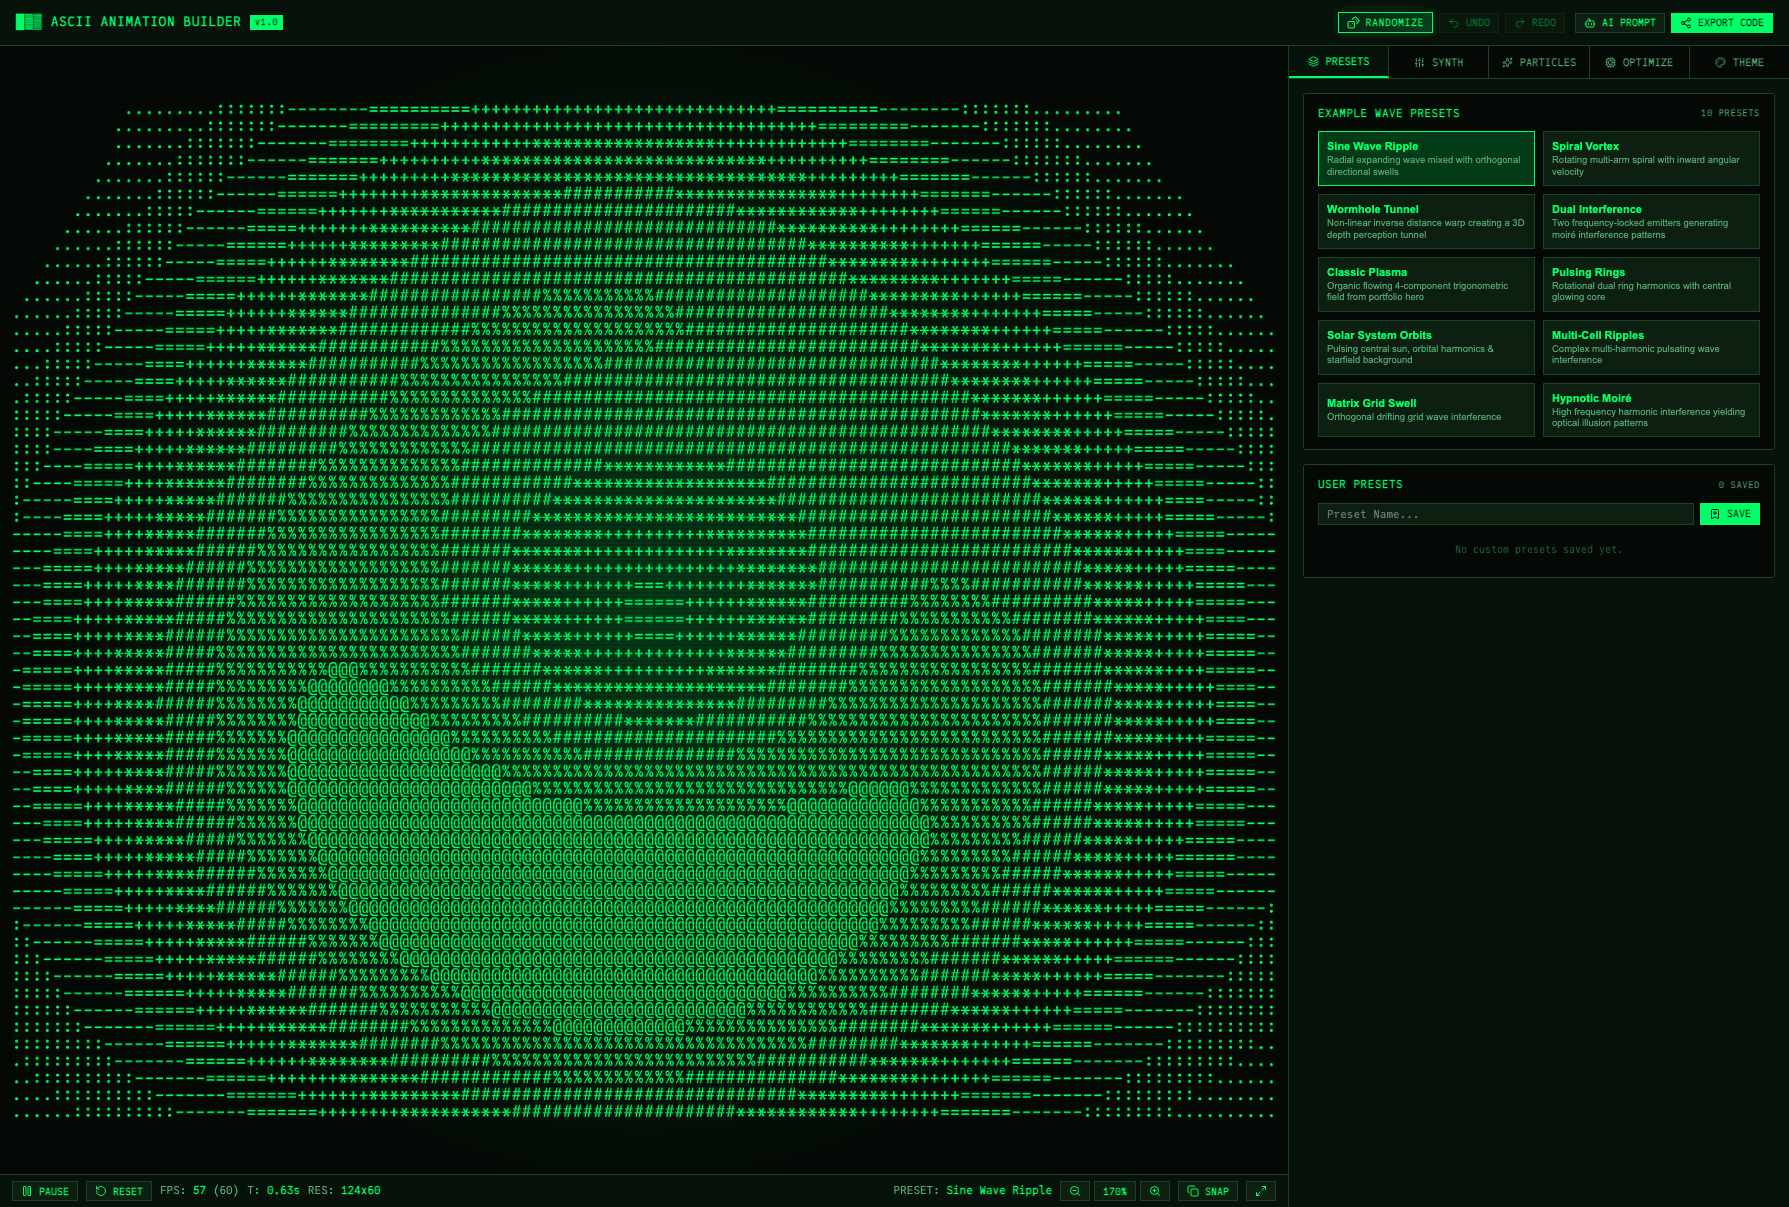
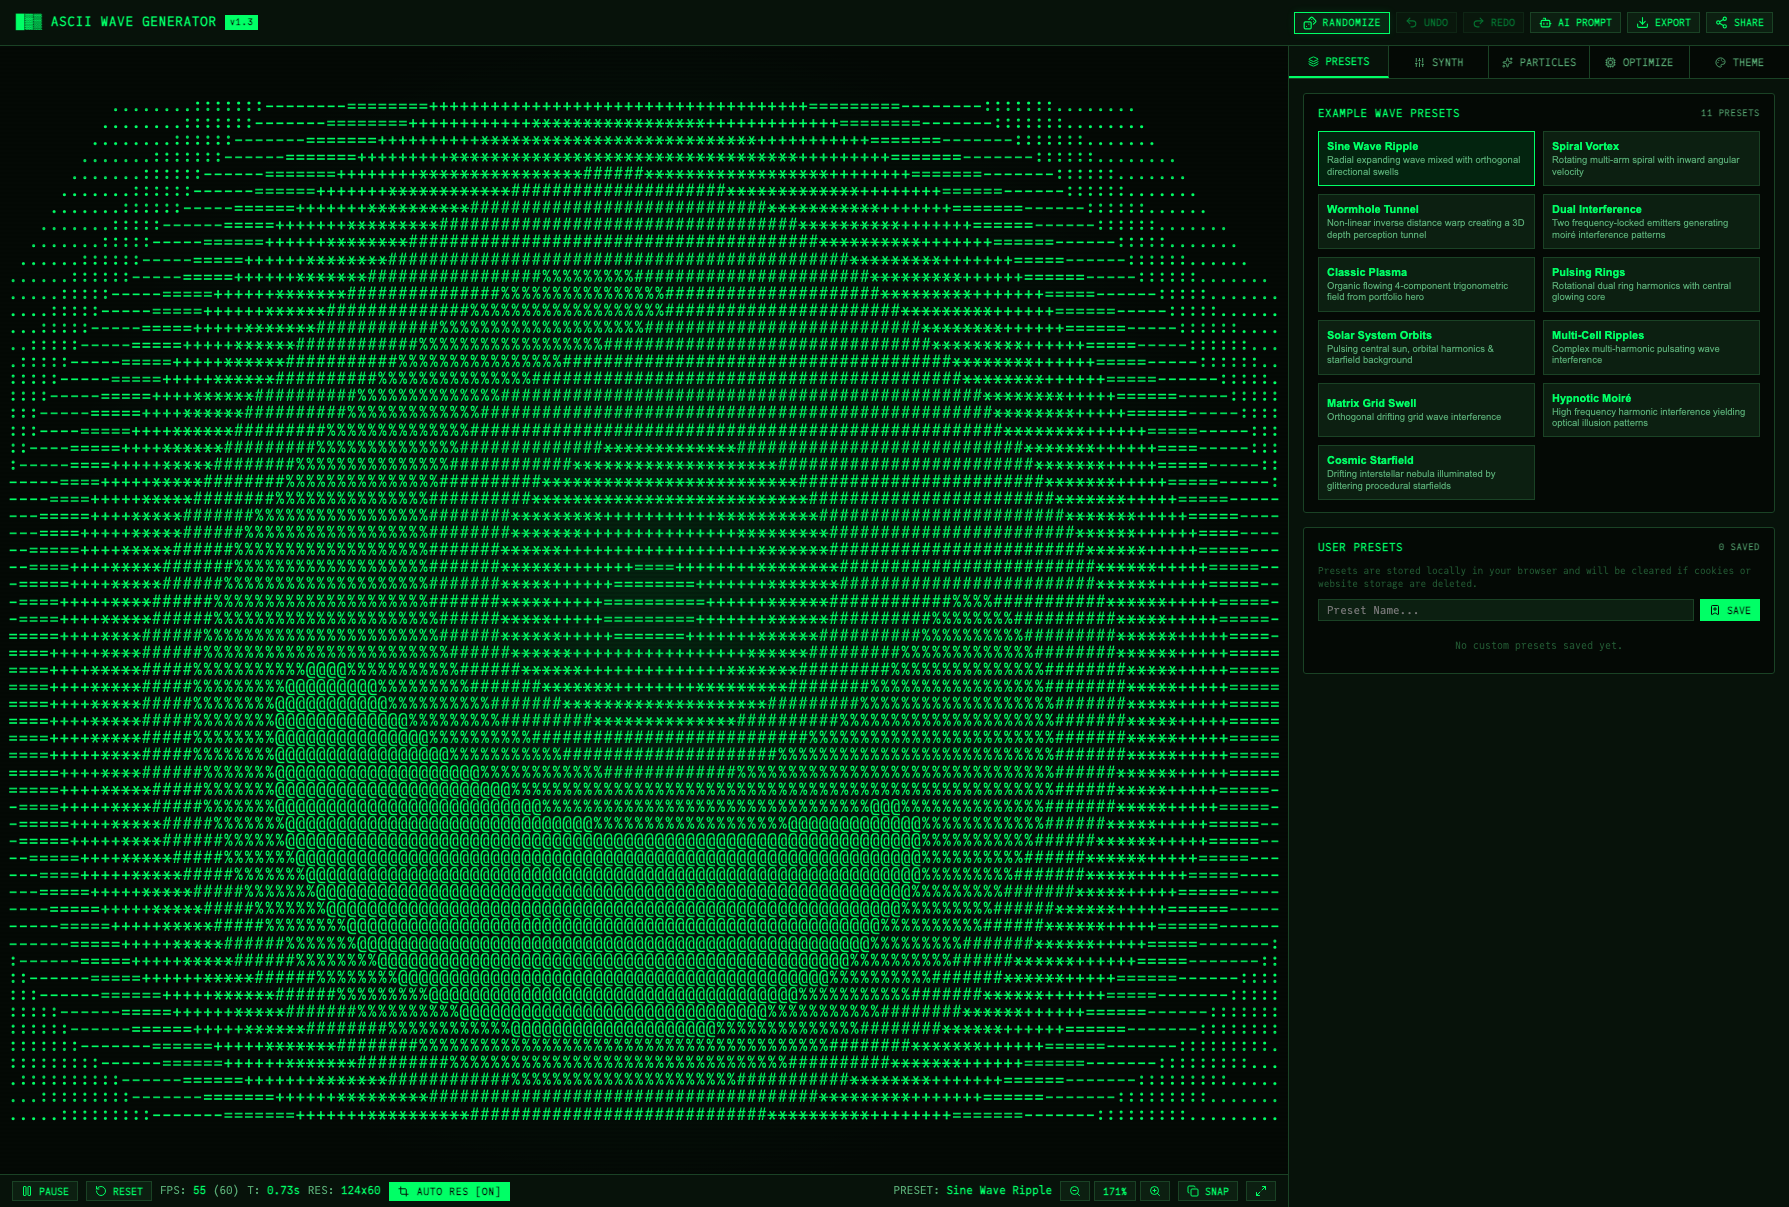
docs: update project portfolio documentation with expanded technical details and roadmap for vibe-coding trilogy projects

diff --git a/src/content/projects/vibe-coding-trilogy/index.md b/src/content/projects/vibe-coding-trilogy/index.md
@@ -1,21 +1,40 @@
 ---
 title: "Vibe Coding projects"
 description: "Some small websites I built recently"
-date: "March 2026"
+date: "June 12, 2026"
 thumbnail: "/projectfiles/thumbnails/camera-thumbnail.png"
 ---
 
-Over the past few weeks, I built four personal websites using what I now think of as a new way of working: **Vibe Coding**. Each project started as a clear idea, and was brought to life in a few evenings using **Antigravity** and the **Gemini CLI** as accelerators. Here's a look at all four.
+Over the past few weeks, I built a number of websites, apps, and projects using what I now think of as a new way of working: **Vibe Coding**. Each project started as a clear idea, and was brought to life in a few evenings using mostly **Antigravity** and a sprinkle of **Claude Code** as accelerators. Most projects were built with <a href="https://astro.build" target="_blank" rel="noopener noreferrer">**Astro**</a> or <a href="https://react.dev/" target="_blank" rel="noopener noreferrer">**React + Vite**</a> and deployed on <a href="https://pages.github.com" target="_blank" rel="noopener noreferrer">**GitHub Pages**</a> with custom domains — a stack I've now become very comfortable with.
+
+## A Note on Vibe Coding
+
+All of these projects were built in heavily AI-assisted sessions. The AI handled the scaffolding, the boilerplate, and the tedious back-and-forth with config and types. I handled the design decisions, the content, and the ideas.
+
+I quickly realized that 90% of a project gets done in 10% of the time — what truly takes effort is the refinement. Fortunately, it's something I love doing, and it feels seamless now: working with AI agents is like pairing with a senior engineer who has infinite patience.
 
 ---
 
 ## The Projects
 
-### 👾 ASCII Animation Builder — <a href="https://ascii.pantoine.com" target="_blank" rel="noopener noreferrer">ascii.pantoine.com</a>
+### 👾 ASCII Wave Generator — <a href="https://ascii.pantoine.com" target="_blank" rel="noopener noreferrer">ascii.pantoine.com</a>
 
-![Preview of ascii.pantoine.com — an interactive ASCII animation builder with real-time green terminal canvas, presets, and code export tools](/projectfiles/vibe-coding-trilogy/ascii-cover.png)
+![Preview of ascii.pantoine.com — an interactive ASCII wave generator with real-time green terminal canvas, presets, and code export tools](/projectfiles/vibe-coding-trilogy/ascii-cover.png)
 
-An interactive visual generator and synthesizer for real-time ASCII canvas animations. It lets you tweak wave harmonics, particle systems, noise flows, and character density presets in a retro-terminal interface, then directly export self-contained ready-to-use Astro and React components or canvas code.
+An interactive visual generator and synthesizer for real-time ASCII canvas animations. It lets you tweak wave harmonics, particle systems, noise flows, and character density presets in a retro-terminal interface.
+
+#### The Technical Side
+
+Unlike the other sites, this is built as a pure client-side web application using **[React 19](https://react.dev/)**, **[TypeScript 5](https://www.typescriptlang.org/)**, and **[Vite 6](https://vitejs.dev/)** ([view on GitHub](https://github.com/gimk/ascii.pantoine.com)):
+
+- **Parametric Wave & Particle Engine**: Evaluates 8-channel harmonic oscillators and finite-difference curl vector fields directly onto an HTML `<pre>` character grid at 60 FPS.
+- **Live Bi-Directional Formula Sandbox**: Real-time JavaScript code editor with instant syntax compilation, bi-directionally synchronizing custom math equations with UI sliders without interrupting the animation loop.
+- **Client-Side Media & Code Exporter**: In-browser animated GIF encoding via `gifenc`, WebM/MP4 recording, text frame snapshots, and self-contained ready-to-use `.astro` and HTML components with zero external runtime dependencies.
+- **State Compression**: Compresses complete simulation states (formulas, physics, color gradients, and themes) directly into shareable URLs.
+
+#### What's Next
+
+To be defined.
 
 ---
 
@@ -25,19 +44,16 @@ An interactive visual generator and synthesizer for real-time ASCII canvas anima
 
 A personal photography gallery built as a digital exhibition for a slower viewing experience. The interface is minimal: a centered disclaimer appears first, suggesting a slower pace. Navigation is scroll or keyboard-based, and each photograph fills the screen.
 
+#### The Technical Side
+
+The main technical feature is the **dynamic background color system**. During the Astro build, the site fetches a small version of each image (400px) and runs it through **node-vibrant** to extract a primary color. The logic prioritizes the `Vibrant` swatch, falling back to `DarkVibrant`, `Muted`, or `LightVibrant`. This pre-computed color sets a subtle background for each photograph without runtime processing.
+
+#### What's Next
+
+- A **collection system** is in the works, to group photographs by theme, trip, or mood.
+- A **new navigation pattern** to move between photographs in a more expressive way.
+
 ---
-
-<div class="grid grid-cols-1 md:grid-cols-2 gap-8 my-8">
-<div>
-
-### 🍽 Antoine's Kitchen — <a href="https://recipes.pantoine.com" target="_blank" rel="noopener noreferrer">recipes.pantoine.com</a>
-
-![Preview of Antoine's Kitchen — a structured recipe grid with monospaced typography, category filters, and monochrome food photography](/projectfiles/vibe-coding-trilogy/recipes-cover.png)
-
-A personal recipe website born from my background as a home cook with a cooking license. The recipes here are refined through repeated sessions and carry the kind of personal notes that never make it into a cookbook. Clean, structured, and grid-based — it's the technical side of cooking made visible.
-
-</div>
-<div>
 
 ### 🎞 Simulation Recipes — <a href="https://fujisims.pantoine.com" target="_blank" rel="noopener noreferrer">fujisims.pantoine.com</a>
 
@@ -45,74 +61,36 @@ A personal recipe website born from my background as a home cook with a cooking 
 
 A Fujifilm X-System film simulation archive. Each entry is a custom recipe with specific in-camera settings that define a photographic look — from something close to classic Kodak tones to more modern, desaturated chrome aesthetics. The site presents them as a clean archive with a dark, film-protocol aesthetic.
 
-</div>
-</div>
-
----
-
-## The Technical Side
-
-Each project was built with <a href="https://astro.build" target="_blank" rel="noopener noreferrer">**Astro**</a> and deployed on <a href="https://pages.github.com" target="_blank" rel="noopener noreferrer">**GitHub Pages**</a> with a custom domain — a stack I've now become very comfortable with.
-
-### ascii.pantoine.com
-
-Built as a lightweight, client-side visual synthesizer. It renders procedural math, trigonometric wave interference, and particle flows directly onto an HTML `<pre>` character grid at 60 FPS. A built-in code generator converts live parameter configurations into optimized, drop-in Astro and React components with zero external runtime dependencies.
-
-### photos.pantoine.com
-
-The main technical feature is the **dynamic background color system**. During the Astro build, the site fetches a small version of each image (400px) and runs it through **node-vibrant** to extract a primary color. The logic prioritizes the `Vibrant` swatch, falling back to `DarkVibrant`, `Muted`, or `LightVibrant`. This pre-computed color sets a subtle background for each photograph without runtime processing.
-
-### recipes.pantoine.com
-
-The site uses **Astro Content Collections** with typed MDX frontmatter to structure every recipe. An embedded **React Island** handles interactive cooking timers. Styling uses **Tailwind CSS** with a custom light blue, CRT-style design system. AI handled schema wiring, component boilerplate, image generation, and CSS refactoring — the repetitive setup work that usually takes hours.
-
-### fujisims.pantoine.com
+#### The Technical Side
 
 Built around an Astro content collection for recipes, with a **dark, cinematic design system** built in vanilla CSS. Each recipe card is dynamically generated from a typed Markdown file defining the film base, in-camera adjustments, and a set of sample photographs. EXIF data is extracted at build time using **exifr** and displayed on each photo card within the recipe detail page.
 
-The most recent addition is a **full community submission system** built directly on GitHub Pages without a dedicated backend:
+It also features a **full serverless community submission flow**:
 
-1. **Public `/submit` page** — an anonymous form covering all recipe parameters: film simulation, grain, color chrome, white balance, dynamic range, tone adjustments, and up to 6 example photos. No account required.
+1. **Public `/submit` page** — an anonymous form covering recipe parameters and photo uploads without requiring an account.
+2. **Client-side image compression** — canvas-based resizing down from ~25MB camera JPEGs to 1–3MB at 85% quality.
+3. **Cloudflare Worker** — verifies Cloudflare Turnstile CAPTCHA and automatically opens a GitHub Pull Request with the Markdown and image assets.
+4. **GitHub PR as admin panel** — review and merge directly on GitHub to trigger CI/CD deployment.
 
-2. **Client-side image compression** — camera JPEGs can be 20–30 MB. Before anything leaves the browser, each image is drawn onto an HTML5 `<canvas>`, resized to a maximum of 2048px on the longest side, and re-encoded as JPEG at 85% quality. A typical 25 MB file becomes 1–3 MB using the native Canvas API.
+#### What's Next
 
-3. **Cloudflare Worker** — the form POSTs a JSON payload (recipe settings + base64 images) to a small Cloudflare Worker (~150 lines). The Worker verifies a **Cloudflare Turnstile** CAPTCHA token, then uses the GitHub Contents API to create a new branch, commit the images and a generated `.md` file, and open a **Pull Request** against the main branch.
-
-4. **GitHub PR as the admin panel** — there is no custom admin interface. The PR is the review mechanism: I receive a GitHub notification, inspect the diff and images directly on github.com, and either merge (recipe goes live after the CI rebuild, ~2 minutes) or close.
-
-It gives me a free, serverless CMS setup with spam protection and git history for reviews, without adding any complex infrastructure to maintain.
-
----
-
-## What's Next
-
-### ascii.pantoine.com
-
-- Adding **image/video to ASCII conversion** with animated temporal dithering.
-- Introducing a **timeline/keyframes editor** for multi-stage animations.
-- Expanding export options to include standalone SVG animations and canvas shaders.
-
-### photos.pantoine.com
-
-- A **collection system** is in the works, to group photographs by theme, trip, or mood.
-- A **new navigation pattern** to move between photographs in a more expressive way.
-
-### recipes.pantoine.com
-
-- The collection is small but growing. Many more recipes to document and share — this is just the foundation.
-- Thinking about adding a **lexicon page** for culinary techniques.
-- I would like to redo the design system from the ground up, to something more rounded, fancy, and warm. More in line with cooking actually.
-
-### fujisims.pantoine.com
-
-- The community submission system is now live — anyone can submit a recipe without an account. The backlog of unsubmitted personal profiles will go through this flow too.
+- The community submission system is now live — anyone can submit a recipe without an account.
 - Considering adding a **comparison mode** to show the same scene with different simulations side by side.
 
 ---
 
-## A Note on Vibe Coding
+### 🍽 Antoine's Kitchen — <a href="https://recipes.pantoine.com" target="_blank" rel="noopener noreferrer">recipes.pantoine.com</a>
 
-All four projects were built in heavily AI-assisted sessions, using **Antigravity** and the **Gemini CLI**. The AI handled the scaffolding, the boilerplate, and the tedious back-and-forth with config and types. I handled the design decisions, the content, and the ideas.
+![Preview of Antoine's Kitchen — a structured recipe grid with monospaced typography, category filters, and monochrome food photography](/projectfiles/vibe-coding-trilogy/recipes-cover.png)
 
-What surprised me is how much more time I spent refining the feel and design of the sites rather than wrestling with wiring and setup. Each of these four sites came together in a few evenings of focused work. That wouldn't have been possible a year ago.
+A personal recipe website born from my background as a home cook with a cooking license. The recipes here are refined through repeated sessions and carry the kind of personal notes that never make it into a cookbook. Clean, structured, and grid-based — it's the technical side of cooking made visible.
 
+#### The Technical Side
+
+The site uses **Astro Content Collections** with typed MDX frontmatter to structure every recipe. An embedded **React Island** handles interactive cooking timers. Styling uses **Tailwind CSS** with a custom light blue, CRT-style design system. AI handled schema wiring, component boilerplate, image generation, and CSS refactoring — the repetitive setup work that usually takes hours.
+
+#### What's Next
+
+- The collection is small but growing. Many more recipes to document and share — this is just the foundation.
+- Thinking about adding a **lexicon page** for culinary techniques.
+- I would like to redo the design system from the ground up, to something more rounded, fancy, and warm. More in line with cooking actually.
